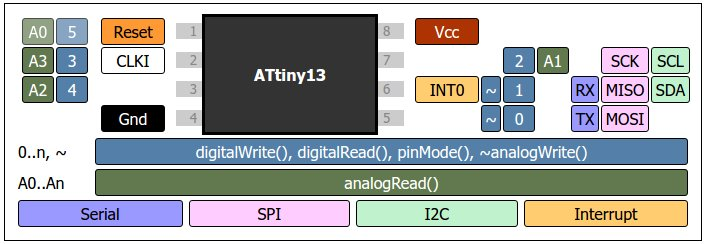
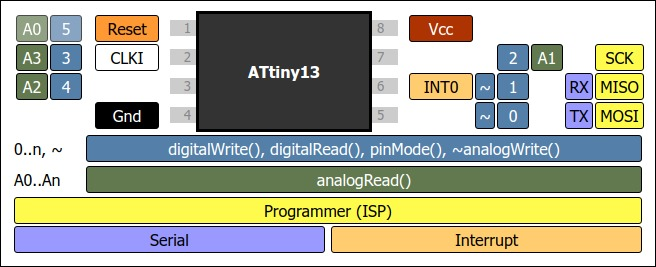
Update template and generated images.
Remove SPI/I2C from Tiny4 through 13, it's probably not feasible to use Wire or SPI library on them, need to investigate though.

Move the Programmer MOSI/MISO/SCK into their own Programmer section, because Master mode SPI flips the pins on x4 and x5.

diff --git a/index.html b/index.html
@@ -400,14 +400,73 @@
           var j = JSON.decode(document.getElement('#templateJSON').value);          
           drawChip(j);
           
+          var numPeripherals = 0;
+          
           if(!j.Peripherals.SPI && j.Peripherals.TPI)
           {
-            document.getElement('#key .pin.SPI span').set('text', 'TPI');
+            document.getElement('#key .pin.SPI span').set('text', 'TPI').setStyle('display','block');
+          }
+          else if(!j.Peripherals.SPI)
+          {
+            document.getElement('#key .pin.SPI span').set('text', '').setStyle('display','none');
           }
           else
           {
-            document.getElement('#key .pin.SPI span').set('text', 'SPI');
+            document.getElement('#key .pin.SPI span').set('text', 'SPI').setStyle('display','block');
+            numPeripherals++;
           }
+          
+          if(!j.Peripherals.I2C)
+          {
+            document.getElement('#key .pin.I2C span').setStyle('display','none');
+          }
+          else
+          {
+            document.getElement('#key .pin.I2C span').setStyle('display','block');
+            numPeripherals++;
+          }
+          
+          if(!j.Peripherals.Programmer)
+          {
+            document.getElement('#key .pin.Programmer').style.display = 'none';
+          }
+          else
+          {
+            document.getElement('#key .pin.Programmer').style.display = 'block';
+            if(j.Programmer)
+            {
+              document.getElement('#key .pin.Programmer span').set('text', 'Programmer ('+j.Programmer+')');
+            }
+            else
+            {
+              document.getElement('#key .pin.Programmer span').set('text', 'Programmer');
+            }
+            numPeripherals++;
+          }
+          
+          if(!j.Peripherals.Serial)
+          {
+            document.getElement('#key .pin.Serial span').setStyle('display','none');
+          }
+          else
+          {
+            document.getElement('#key .pin.Serial span').setStyle('display','block');
+            numPeripherals++;
+          }
+          
+          if(!j.PRC.Interrupt.length)
+          {
+            document.getElement('#key .pin.Interrupt span').setStyle('display','none');
+          }
+          else
+          {
+            document.getElement('#key .pin.Interrupt span').setStyle('display','block');
+            numPeripherals++;
+          }
+          
+          document.getElement('#key .Peripherals').className = document.getElement('#key .Peripherals').className.replace(/has[0-9]/, '');
+          document.getElement('#key .Peripherals').addClass('has'+numPeripherals);
+          
           
           if(!j.Analog.length)
           {
@@ -493,9 +552,33 @@
       
       #key .Peripherals div { float:left; width:25%; }
       #key .Peripherals span { margin-left:3px; margin-right:3px; }
-      #key .Peripherals div:first-child span  { margin-left:0px; }
+      #key .Peripherals div:nth-child(2) span  { margin-left:0px; }
       #key .Peripherals div:last-child span   { margin-right:0px; }
+            
       
+      #key .Peripherals.has3 div
+      {
+        width:50%;
+      }
+            
+      #key .Peripherals.has4 div
+      {
+        width:33.3%;
+      }
+      
+      #key .Peripherals div.Programmer 
+      {
+        float: none;
+        width: auto;
+        clear: both;        
+        margin-bottom:2px;
+      }
+      
+      #key .Peripherals .Programmer span
+      {
+        margin-left:0px;
+        margin-right:0px;
+      }
       
       /* The body of the IC */
       table.pinout { border-collapse:collapse; }
@@ -542,6 +625,7 @@
       .pin.Analog span  { background-color:#62794F; color:white; }      
            
       /* Peripheral Labels */
+      .pin.Programmer span  { background-color:#fffb4d; color:black; }
       .pin.Serial span  { background-color:#9999FF; color:black; }
       .pin.SPI    span, .pin.TPI    span  { background-color:#FFCCFF; color:black; }
       .pin.I2C    span  { background-color:#bff2cd; color:black; }
@@ -622,9 +706,10 @@
         <td>A0..An</td><td class="pin Analog"><span>analogRead()</span></td>        
       </tr>
       <tr>
-        <td colspan="2" class="Peripherals">
+        <td colspan="2" class="Peripherals">          
+          <div class="pin Programmer"><span>Programmer</span></div>
           <div class="pin Serial"><span>Serial</span></div> 
-          <div class="pin SPI"><span>SPI</span></div>
+          <div class="pin SPI"><span>SPI</span></div>          
           <div class="pin I2C"><span>I2C</span></div>
           <div class="pin Interrupt"><span>Interrupt</span></div>          
         </td>        

diff --git a/templates.js b/templates.js
@@ -7,6 +7,7 @@ var templates = [
           Name   : 'ATtiny13', // A label for the IC
           Package: '2SIDED'  , // 2SIDED or 4SIDED
           Pins   :  8     ,    // Total number of pins in the package
+          Programmer: 'ISP', 
           
           // PRC (Power Reset Clock) are the labels closest to the IC
           // If a label should be applied to more that one pin, use an 
@@ -45,8 +46,8 @@ var templates = [
           Peripherals: 
           {
             Serial : {TX:   5,   RX: 6},
-            SPI    : {MOSI: 5, MISO: 6, SCK: 7},
-            I2C    : {SDA:  6,          SCL: 7}
+            Programmer    : {MOSI: 5, MISO: 6, SCK: 7},
+           // I2C    : {SDA:  6,          SCL: 7}
           }        
           
         },
@@ -55,6 +56,7 @@ var templates = [
           Name   : 'ATtiny 5/10', // A label for the IC
           Package: '2SIDED'  , // 2SIDED or 4SIDED
           Pins   :  6     ,    // Total number of pins in the package
+          Programmer: 'TPI',
           
           // PRC (Power Reset Clock) are the labels closest to the IC
           // If a label should be applied to more that one pin, use an 
@@ -93,7 +95,7 @@ var templates = [
           Peripherals: 
           {
             Serial : {TX:   1,   RX: 3},
-            TPI    : {DATA: 1,   CLK: 3},
+            Programmer    : {DATA: 1,   CLK: 3},
           }        
           
         },
@@ -102,6 +104,7 @@ var templates = [
           Name   : 'ATtiny 4/9', // A label for the IC
           Package: '2SIDED'  , // 2SIDED or 4SIDED
           Pins   :  6     ,    // Total number of pins in the package
+          Programmer: 'TPI',
           
           // PRC (Power Reset Clock) are the labels closest to the IC
           // If a label should be applied to more that one pin, use an 
@@ -140,7 +143,7 @@ var templates = [
           Peripherals: 
           {
             Serial : {TX:   1,   RX: 3},
-            TPI    : {DATA: 1,   CLK: 3},
+            Programmer    : {DATA: 1,   CLK: 3},
           }        
           
         },
@@ -148,6 +151,7 @@ var templates = [
           Name   : 'ATtiny 24/44/84',
           Package: '2SIDED'  ,
           Pins   :  14     ,
+          Programmer: 'ISP',
           
           PRC    :   { Vcc:1, Gnd:14, Reset: 4, XTAL1: 2, XTAL2: 3, Interrupt: [8]},
           PWM    :   [5,6,7,8],
@@ -157,7 +161,8 @@ var templates = [
           Peripherals: 
           {
             Serial : {TX:   12,  RX: 11},
-            SPI    : {MOSI: 7, MISO: 8, SCK: 9},
+            Programmer    : {MOSI: 7, MISO: 8, SCK: 9},
+            SPI    : {MOSI: 8, MISO: 7, SCK: 9},
             I2C    : {SDA:  7,          SCL: 9}
           }        
           
@@ -167,6 +172,7 @@ var templates = [
           Name   : 'ATtiny 24/44/84 A0=D10 Variant',
           Package: '2SIDED'  ,
           Pins   :  14     ,
+          Programmer: 'ISP',
           
           PRC    :   { Vcc:1, Gnd:14, Reset: 4, XTAL1: 2, XTAL2: 3, Interrupt: [8]},
           PWM    :   [5,6,7,8],
@@ -176,7 +182,8 @@ var templates = [
           Peripherals: 
           {
             Serial : {TX:   12,  RX: 11},
-            SPI    : {MOSI: 7, MISO: 8, SCK: 9},
+            Programmer    : {MOSI: 7, MISO: 8, SCK: 9},
+            SPI    : {MOSI: 8, MISO: 7, SCK: 9},
             I2C    : {SDA:  7,          SCL: 9}
           }        
           
@@ -185,6 +192,7 @@ var templates = [
           Name   : 'ATtiny 25/45/85',
           Package: '2SIDED'  ,
           Pins   :  8     ,
+          Programmer: 'ISP',
           
           PRC    :   { Vcc:8, Gnd:4, Reset: 1, XTAL1: 2, XTAL2: 3, Interrupt: [6]}, // PRC = Power, Reset and Clock
           PWM    :   [5,6,3],
@@ -194,7 +202,8 @@ var templates = [
           Peripherals: 
           {
             Serial : {TX:   5,   RX: 6},
-            SPI    : {MOSI: 5, MISO: 6, SCK: 7},
+            Programmer    : {MOSI: 5, MISO: 6, SCK: 7},
+            SPI    : {MOSI: 6, MISO: 5, SCK: 7},
             I2C    : {SDA:  5,          SCL: 7}
           }        
           
